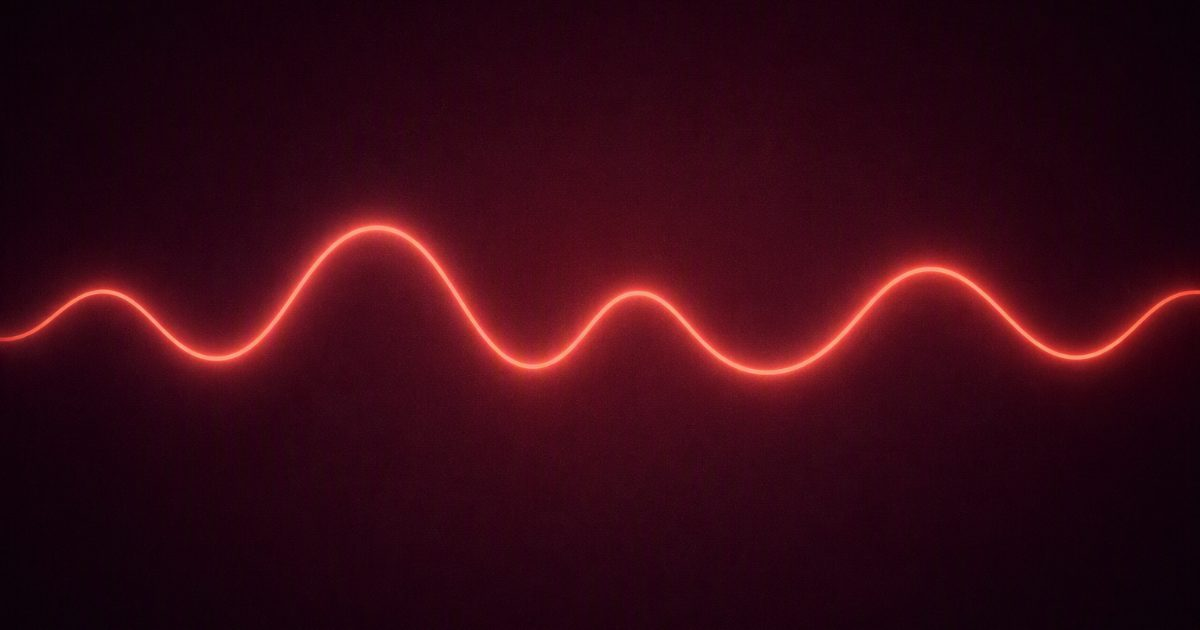
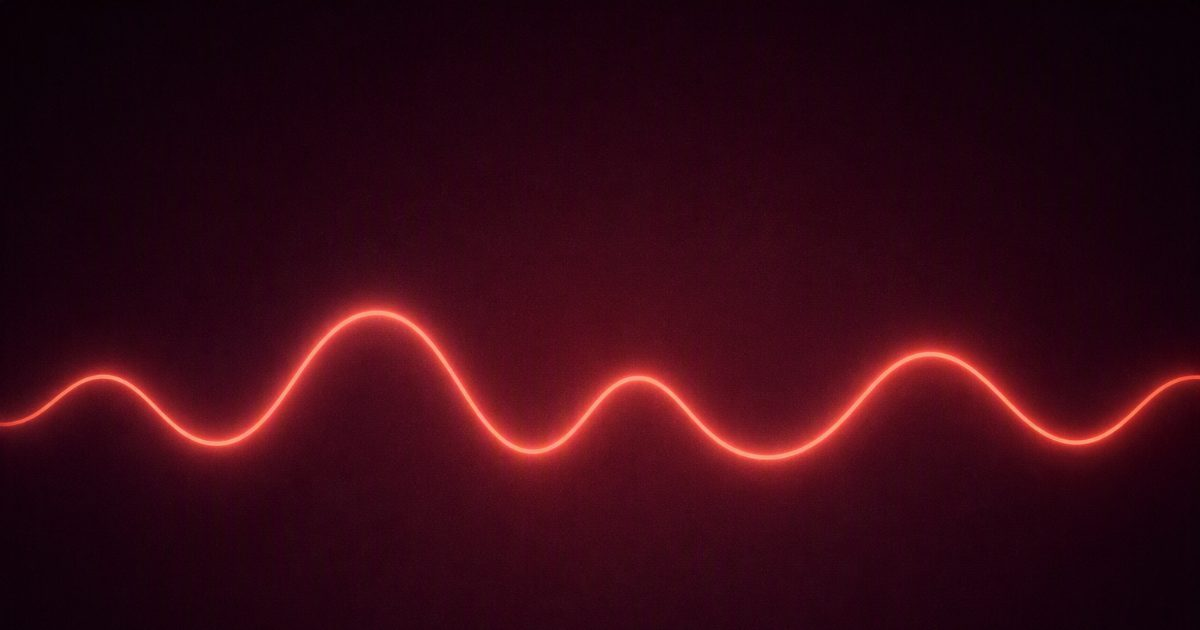
feat(web): crop the dashboard's real figures, place remaining photos, add related scores
Registry dashboard: rather than label real numbers "illustrative" — which would
simply be untrue — the sensitive regions are cropped out of the source. The
window now keeps the sidebar and the admissions/discharges chart and excludes
the year-to-date totals, bed occupancy above 100%, live census and dated
admissions. It shows what the product looks like without asserting anything
about a real unit's performance. prepare-images.mjs gained sourceCrop for this.

Places the two remaining photographs: the resting child as an overlapping
second frame in the home mission collage (hidden on small screens, where it
would crowd the stat badge), and the teddy in an oxygen mask on /about beside
the brand story — paediatric critical care with no real patient in frame.

Calculator detail gains related scores: up to six same-category siblings, so a
clinician who opened the wrong one steps sideways instead of returning to the
index. Excluded from print. The rest of R5 turned out to already exist — the
page has carried formula transparency, accepted input ranges and PMID/DOI
reference links all along.

Changed region(s): [[0.0, 0.2714, 1.0, 0.8444]]

diff --git a/apps/web/app/calculators/[slug]/page.tsx b/apps/web/app/calculators/[slug]/page.tsx
@@ -1,4 +1,5 @@
 import type { Metadata } from "next";
+import Link from "next/link";
 import { notFound } from "next/navigation";
 import { getScore, listScores } from "@towardpcc/scoring-engine";
 import { Callout } from "@towardpcc/ui";
@@ -32,6 +33,13 @@ export default async function CalculatorDetailPage({
   const { slug } = await params;
   const score = getScore(slug);
   if (!score || score.status !== "published") notFound();
+
+  // Same-category siblings, so a clinician who opened the wrong score can step
+  // sideways instead of going back to the index.
+  const related = listScores({ status: "published" })
+    .filter((s) => s.category === score.category && s.slug !== score.slug)
+    .sort((a, b) => a.name.localeCompare(b.name))
+    .slice(0, 6);
 
   return (
     <div className="mx-auto max-w-[1100px] px-6 py-12">
@@ -133,6 +141,34 @@ export default async function CalculatorDetailPage({
           ))}
         </ul>
       </section>
+
+      {related.length > 0 ? (
+        <section className="mt-12 border-t border-surface-sunken pt-8" data-print="hide">
+          <h2 className="font-display text-xl font-medium text-ink-strong">
+            Other {c.categoryLabels[score.category].toLowerCase()} scores
+          </h2>
+          <ul className="mt-4 grid list-none gap-3 sm:grid-cols-2 lg:grid-cols-3">
+            {related.map((r) => (
+              <li key={r.slug}>
+                <Link
+                  href={`/calculators/${r.slug}`}
+                  className="group flex h-full flex-col justify-between gap-2 rounded-lg border border-surface-sunken bg-surface-raised px-5 py-4 transition-[border-color,transform] duration-200 hover:-translate-y-1 hover:border-accent/40 focus-visible:outline-2 focus-visible:outline-offset-2 focus-visible:outline-accent"
+                >
+                  <span className="font-display text-[15px] font-medium text-ink-strong">
+                    {r.name}
+                  </span>
+                  <span className="font-numeric text-[11px] text-ink-muted">
+                    v{r.version}
+                    <span className="ml-3 text-accent opacity-0 transition-opacity duration-150 group-hover:opacity-100">
+                      Open →
+                    </span>
+                  </span>
+                </Link>
+              </li>
+            ))}
+          </ul>
+        </section>
+      ) : null}
 
       <section className="mt-12 border-t border-surface-sunken pt-8">
         <h2 className="font-display text-lg font-medium text-ink-strong">{c.disclaimerHeading}</h2>

diff --git a/apps/web/app/page.tsx b/apps/web/app/page.tsx
@@ -188,11 +188,22 @@ export default function HomePage() {
             <div className="relative">
               <ImageSlot
                 label="Mission photograph"
-                hint="save as public/images/care-nurse-smiling.jpg"
+                hint="care-nurse-smiling.jpg"
                 src="/images/care-nurse-smiling.jpg"
                 alt="A nurse laughing with a child in a hospital bed, who is holding a teddy bear."
                 className="aspect-4/3.4"
               />
+              {/* Overlapping second frame — the quieter half of the same story.
+                  Hidden on small screens, where it would only crowd the stat. */}
+              <div className="absolute -right-6 -bottom-10 hidden w-40 sm:block lg:w-48">
+                <ImageSlot
+                  label="Rest"
+                  hint="care-resting.jpg"
+                  src="/images/care-resting.jpg"
+                  alt="A child asleep in a hospital bed, holding a soft toy."
+                  className="aspect-9/16 rounded-[20px] ring-4 ring-surface-page"
+                />
+              </div>
               <p className="absolute -bottom-6 -left-6 z-20 rounded-[20px] bg-surface-raised px-6 py-5 shadow-[0_26px_54px_-22px_rgba(0,0,0,0.4)]">
                 <span className="block font-numeric text-3xl leading-none font-semibold text-accent tabular-nums">
                   <Counter value={22} />

diff --git a/apps/web/app/about/page.tsx b/apps/web/app/about/page.tsx
@@ -124,10 +124,21 @@ export default function AboutPage() {
         <div className="mx-auto max-w-[1280px] px-6 py-24">
           <h2
             id="story"
-            className="mb-10 text-center font-display text-3xl font-bold tracking-tight text-ink-strong"
+            className="mb-8 text-center font-display text-3xl font-bold tracking-tight text-ink-strong"
           >
             {a.storyHeading}
           </h2>
+          {/* The motif the section explains, shown once: paediatric critical
+              care without a real patient in frame. */}
+          <Reveal>
+            <ImageSlot
+              label="Pediatric critical care"
+              hint="care-teddy-oxygen.jpg"
+              src="/images/care-teddy-oxygen.jpg"
+              alt="A teddy bear tucked into a hospital bed wearing an oxygen mask."
+              className="mx-auto mb-12 aspect-21/9 max-w-[900px]"
+            />
+          </Reveal>
           <ul className="grid list-none gap-6 md:grid-cols-3">
             {a.story.map((s) => (
               <li key={s.title}>
